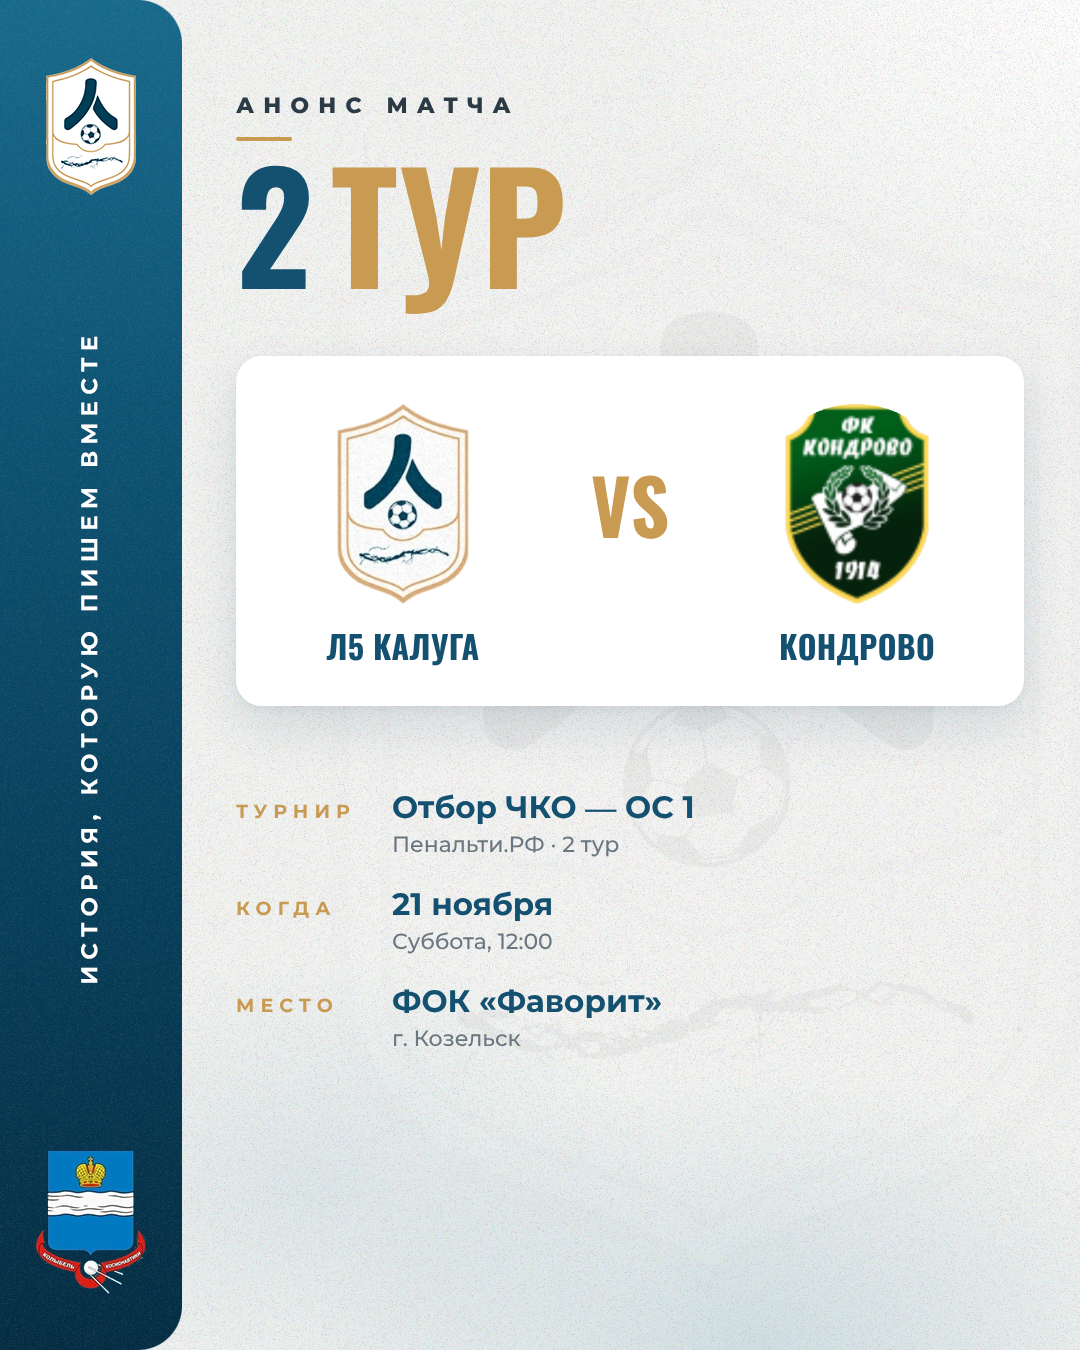
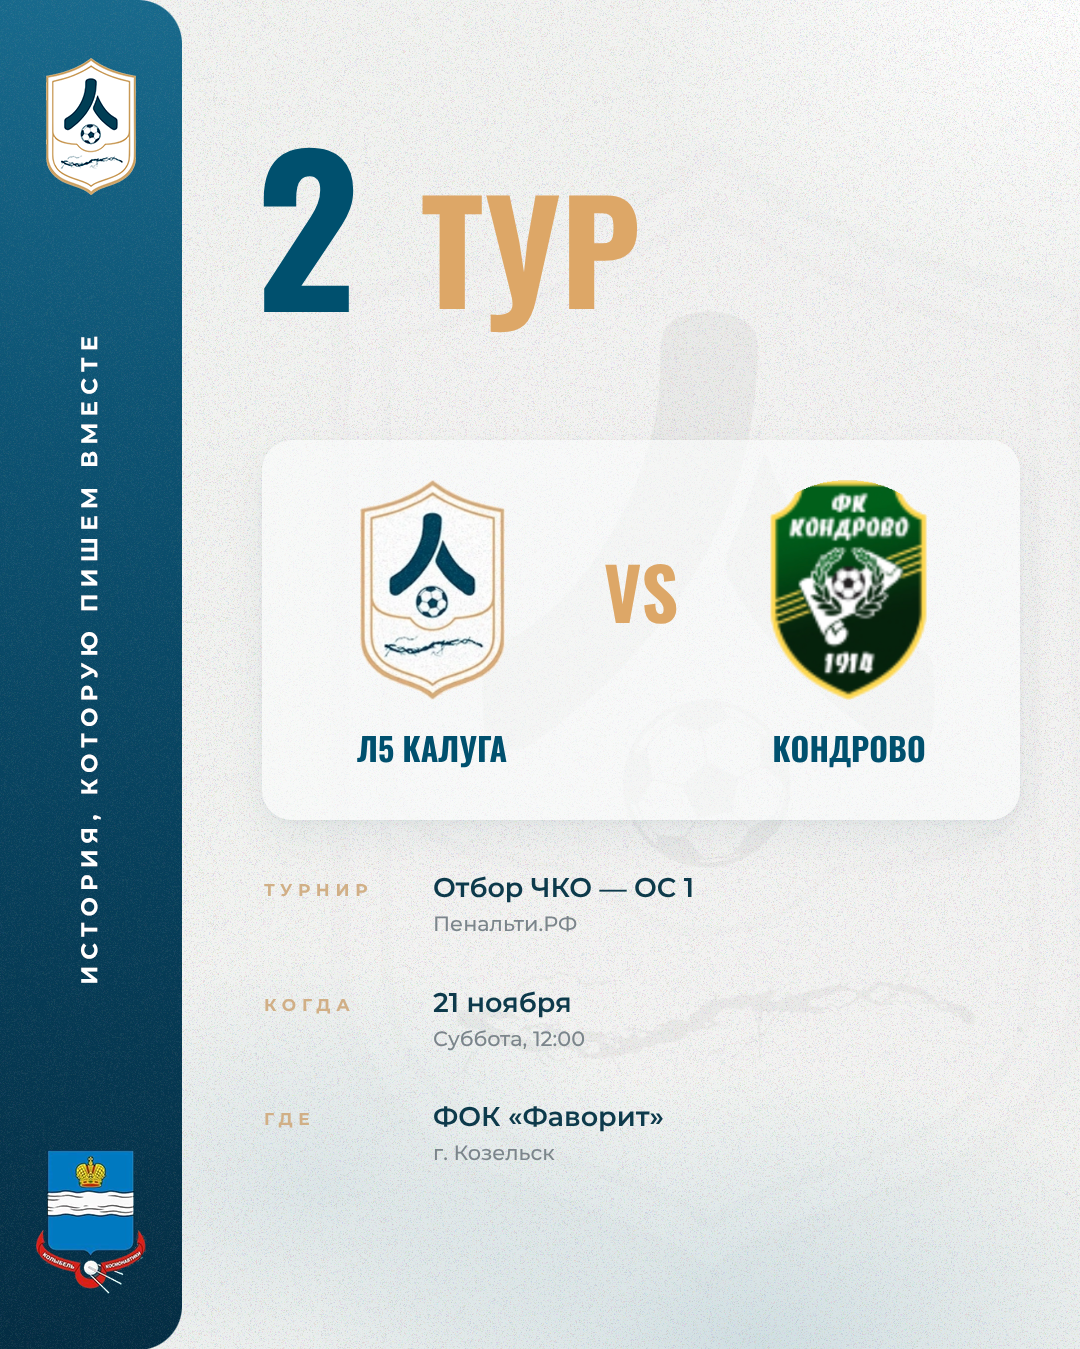
Rebuild round 2 announcement to match the group's round 1 card exactly
Claude-Session: https://claude.ai/code/session_01BAoifR2VyKx7kzhUngMqXC

diff --git a/l5-anons-2tur/source/fonts.css b/l5-anons-2tur/source/fonts.css
@@ -1,0 +1,11 @@
+@font-face{font-family:Mont;font-weight:600;src:url(montserrat-latin-600-normal.woff2);unicode-range:U+0000-00FF}
+@font-face{font-family:Mont;font-weight:800;src:url(montserrat-latin-800-normal.woff2);unicode-range:U+0000-00FF}
+@font-face{font-family:Osw;font-weight:700;src:url(oswald-latin-700-normal.woff2);unicode-range:U+0000-00FF}
+@font-face{font-family:Mont;font-weight:500;src:url(montserrat-latin-500-normal.woff2);unicode-range:U+0000-00FF}
+@font-face{font-family:Mont;font-weight:700;src:url(montserrat-latin-700-normal.woff2);unicode-range:U+0000-00FF}
+@font-face{font-family:Osw;font-weight:700;src:url(oswald-cyrillic-700-normal.woff2)}
+@font-face{font-family:Osw;font-weight:600;src:url(oswald-cyrillic-600-normal.woff2)}
+@font-face{font-family:Mont;font-weight:500;src:url(montserrat-cyrillic-500-normal.woff2)}
+@font-face{font-family:Mont;font-weight:600;src:url(montserrat-cyrillic-600-normal.woff2)}
+@font-face{font-family:Mont;font-weight:700;src:url(montserrat-cyrillic-700-normal.woff2)}
+@font-face{font-family:Mont;font-weight:800;src:url(montserrat-cyrillic-800-normal.woff2)}

diff --git a/l5-anons-2tur/source/anons2.js b/l5-anons-2tur/source/anons2.js
@@ -1,0 +1,9 @@
+const {chromium}=require('playwright');const fs=require('fs');const path=require('path');
+const P=JSON.parse(fs.readFileSync(process.argv[2],'utf8'));
+let s=fs.readFileSync('anons2.tpl','utf8').replace('__FF__',fs.readFileSync('fonts.css','utf8')+'\n@font-face{font-family:Mont;font-weight:600;src:url(montserrat-cyrillic-600-normal.woff2)}');
+const rows=P.rows.map((r,i)=>{const y=P.rowY+i*P.rowGap;return `<div class="l" style="top:${y+P.lOff}px">${r[0]}</div><div class="v" style="top:${y}px">${r[1]}</div><div class="s" style="top:${y+P.sOff}px">${r[2]}</div>`}).join('');
+for(const [k,v] of Object.entries(P.vars)) s=s.split('__'+k+'__').join(v);
+s=s.replace('__ROWS__',rows);fs.writeFileSync('_a.html',s);
+(async()=>{const b=await chromium.launch();const p=await b.newPage({viewport:{width:1080,height:1349}});
+await p.goto('file://'+path.resolve('_a.html'));await p.evaluate(()=>document.fonts.ready);await p.waitForTimeout(300);
+await p.screenshot({path:P.out});await b.close();console.log(P.out)})();

diff --git a/l5-anons-2tur/README.md b/l5-anons-2tur/README.md
@@ -1,0 +1,8 @@
+# Анонс матча — 2 тур (Л5 Калуга — Кондрово)
+
+Карточка 1080×1349 повторяет оформление карточки «1 ТУР» группы
+(размеры, отступы, цвета и начертания сняты с оригинала по пикселям).
+
+Новый анонс: скопируйте `source/tur2.json`, поменяйте номер тура (`N`), гербы, названия
+и строки, затем `cd source && node anons2.js tur3.json`.
+Для двузначного номера или другой цифры сдвиньте `TX` так, чтобы зазор до «ТУР» был ~71 px.
